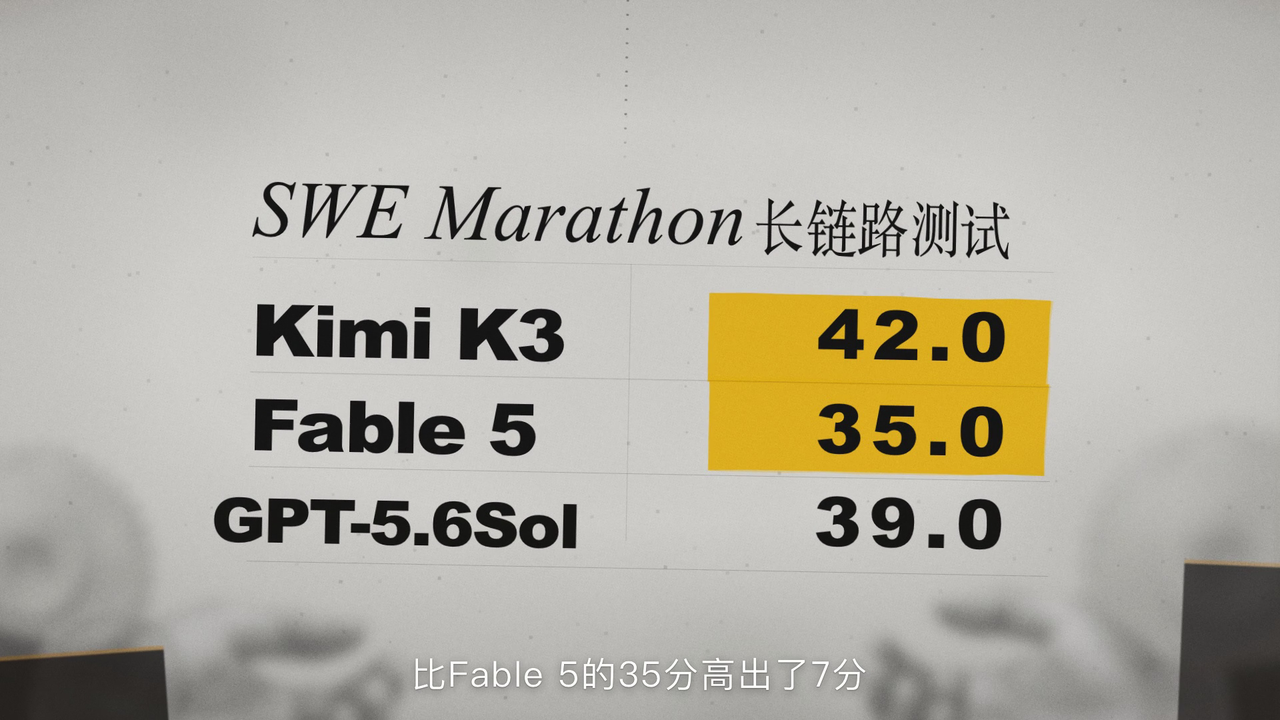
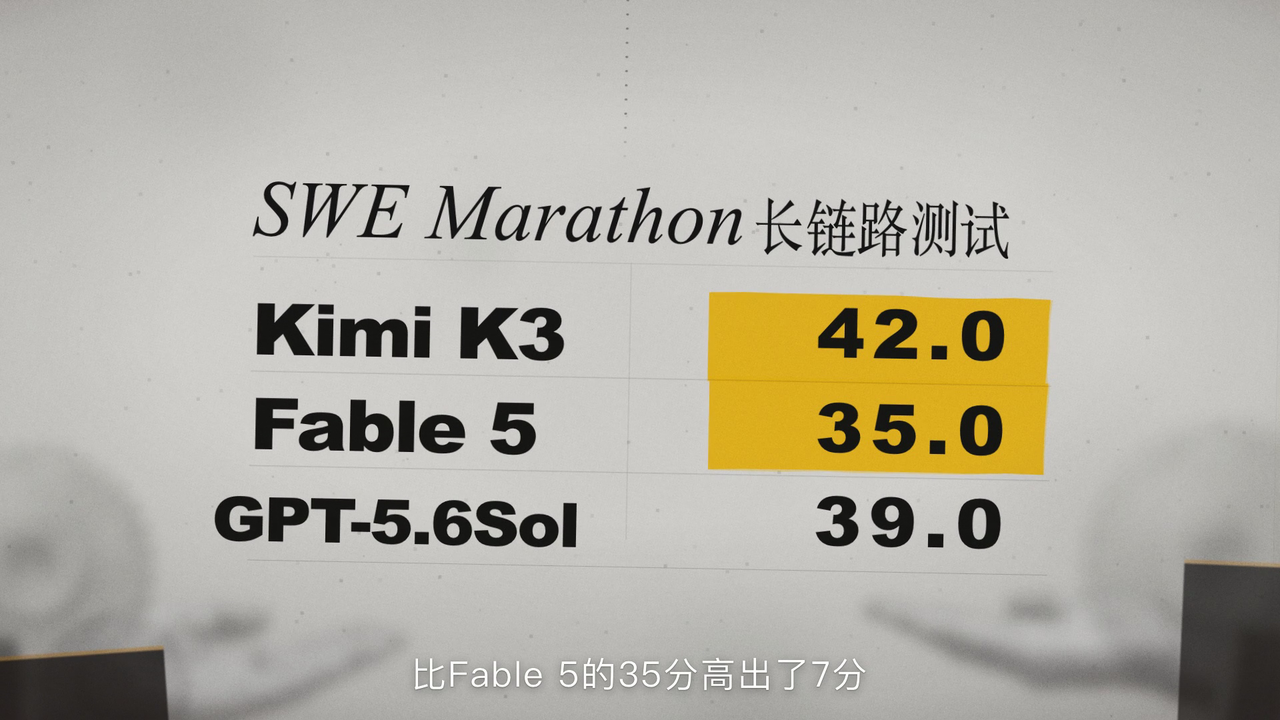
Match the reference hand gesture and punch-in timing
- flat-palm cut-outs (fingers together, gear balanced on the fingertips)
- gears sit on the palm instead of floating above it
- punch-in resolves to 1.0x by 0.7s, matching the reference framing
- leaderboard title starts entering at 1.7s so both pages overlap like the source
- refreshed preview frame

diff --git a/src/components/IntroCollage.tsx b/src/components/IntroCollage.tsx
@@ -38,9 +38,9 @@ const TitleRow: React.FC = () => (
       letterSpacing: '-0.01em',
     }}
   >
-    <span style={{fontSize: 316}}>长</span>
-    <span style={{fontSize: 212, marginLeft: 40}}>链路</span>
-    <span style={{fontSize: 216, marginLeft: 52}}>测试</span>
+    <span style={{fontSize: 304}}>长</span>
+    <span style={{fontSize: 204, marginLeft: 38}}>链路</span>
+    <span style={{fontSize: 208, marginLeft: 48}}>测试</span>
   </div>
 );
 
@@ -250,25 +250,25 @@ export const IntroProps: React.FC = () => {
   return (
     <>
       <GearPalm
-        gearLeft={345}
-        gearTop={715 + float}
-        gearSize={212}
+        gearLeft={330}
+        gearTop={676 + float}
+        gearSize={202}
         gearRotate={-6 + spin}
-        handLeft={120}
-        handTop={800}
-        handWidth={600}
+        handLeft={-86}
+        handTop={792}
+        handWidth={668}
         handRotate={-2}
         hand="left"
         blur={1.5}
       />
       <GearPalm
-        gearLeft={1172}
-        gearTop={642 - float}
-        gearSize={296}
+        gearLeft={1160}
+        gearTop={506 - float}
+        gearSize={292}
         gearRotate={5 + spin * 0.6}
-        handLeft={1132}
-        handTop={700}
-        handWidth={612}
+        handLeft={1016}
+        handTop={716}
+        handWidth={700}
         handRotate={1.5}
         hand="right"
         blur={1.5}

diff --git a/src/timeline.ts b/src/timeline.ts
@@ -15,7 +15,7 @@ export const BEATS = {
   panStart: 45,
   panEnd: 74,
   settle: 96,
-  tableTitle: 56,
+  tableTitle: 46,
   rowIn: [62, 70, 78],
   scoreIn: [70, 79, 88],
   markerSwipe: [130, 142],
@@ -35,7 +35,7 @@ export const cameraOffset = (frame: number): number =>
 
 /** Punch-in that relaxes into the locked-off shot. */
 export const cameraScale = (frame: number): number =>
-  interpolate(frame, [0, 12, 26, 48, 96, 240], [1.24, 1.14, 1.045, 1.012, 1.0, 1.018], {
+  interpolate(frame, [0, 9, 20, 48, 96, 240], [1.24, 1.1, 1.0, 1.0, 1.0, 1.016], {
     ...clamp,
     easing: Easing.out(Easing.cubic),
   });
